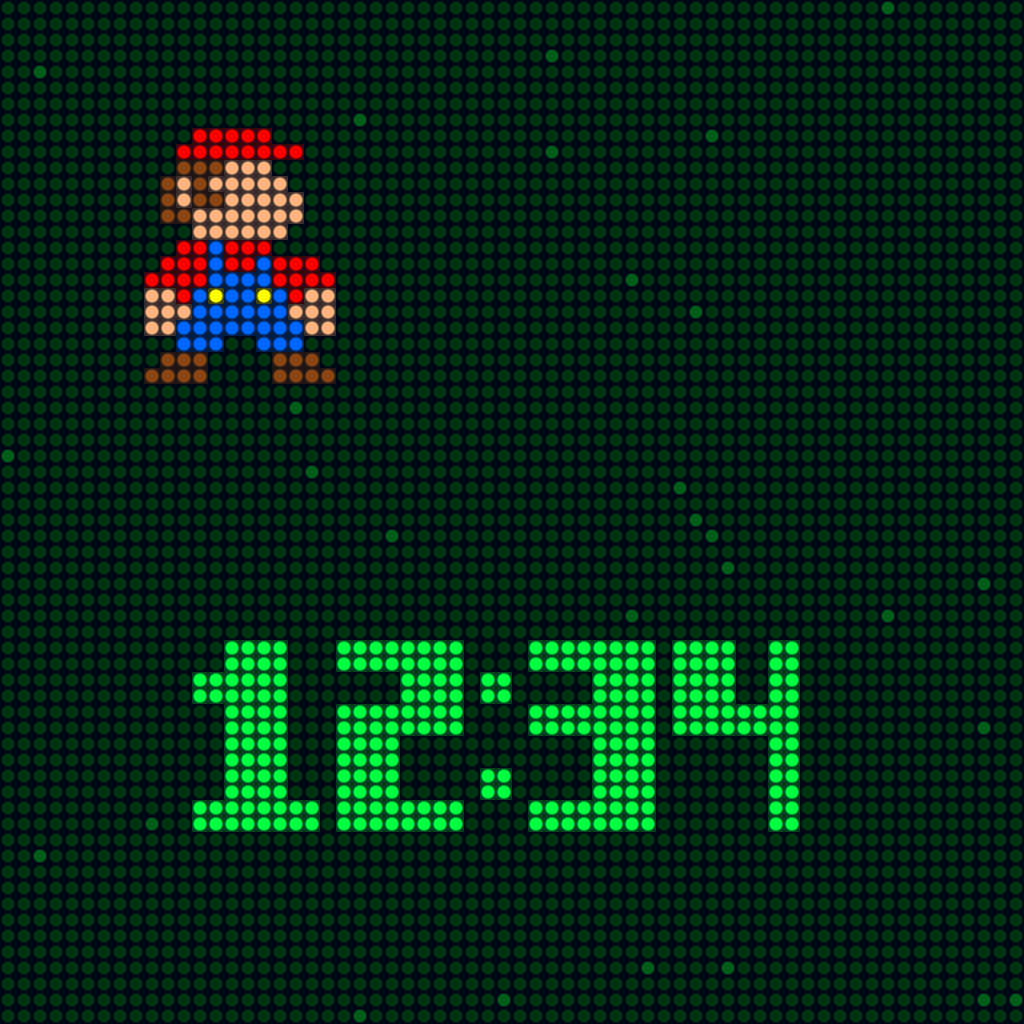
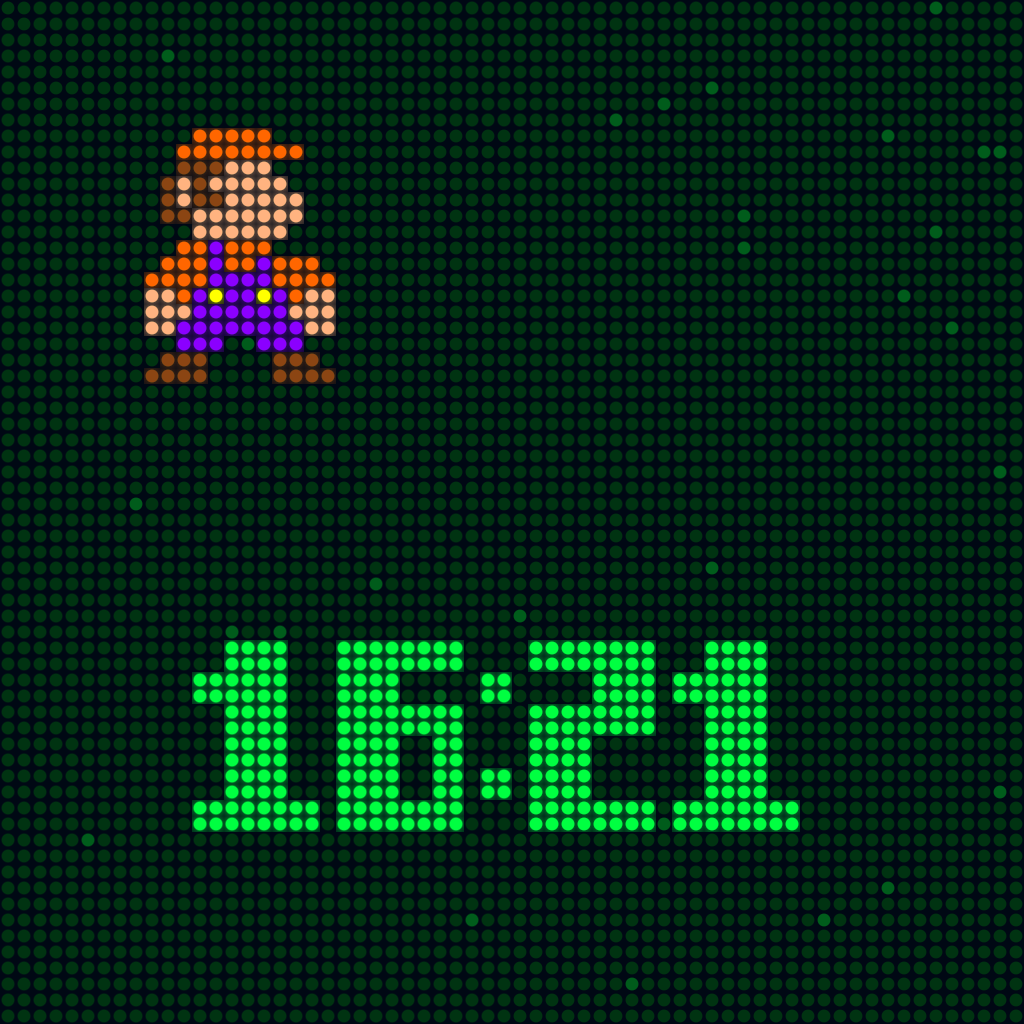
updated assets

diff --git a/FlutterApp/clockapp/feature_graphic_generator.html b/FlutterApp/clockapp/feature_graphic_generator.html
@@ -73,10 +73,10 @@
         const bgColor = '#000814';
         const ledOnColor = '#00ff41';
         const ledDimColor = '#002211';
-        const marioRed = '#ff0000';
+        const marioRed = '#ff6600';
         const marioSkin = '#ffb380';
         const marioBrown = '#8b4513';
-        const marioBlue = '#0066ff';
+        const marioBlue = '#8b00ff';
         const yellow = '#ffff00';
 
         // Parametri matrice
@@ -170,7 +170,7 @@
             });
         });
 
-        // Orologio digitale "12:34" al centro
+        // Orologio digitale "16:21" al centro
         const digitPatterns = {
             '1': [
                 [0,1,1,0],
@@ -190,23 +190,14 @@
                 [1,1,0,0],
                 [1,1,1,1]
             ],
-            '3': [
+            '6': [
                 [1,1,1,1],
-                [0,0,1,1],
-                [0,0,1,1],
+                [1,1,0,0],
+                [1,1,0,0],
                 [1,1,1,1],
-                [0,0,1,1],
-                [0,0,1,1],
+                [1,1,0,1],
+                [1,1,0,1],
                 [1,1,1,1]
-            ],
-            '4': [
-                [1,1,0,1],
-                [1,1,0,1],
-                [1,1,0,1],
-                [1,1,1,1],
-                [0,0,0,1],
-                [0,0,0,1],
-                [0,0,0,1]
             ],
             ':': [
                 [0],
@@ -222,7 +213,7 @@
         const timeScale = 2;
         let timeX = 48;
         const timeY = Math.floor(matrixRows / 2) - 7;
-        const timeString = '12:34';
+        const timeString = '16:21';
 
         for (let char of timeString) {
             const pattern = digitPatterns[char];
